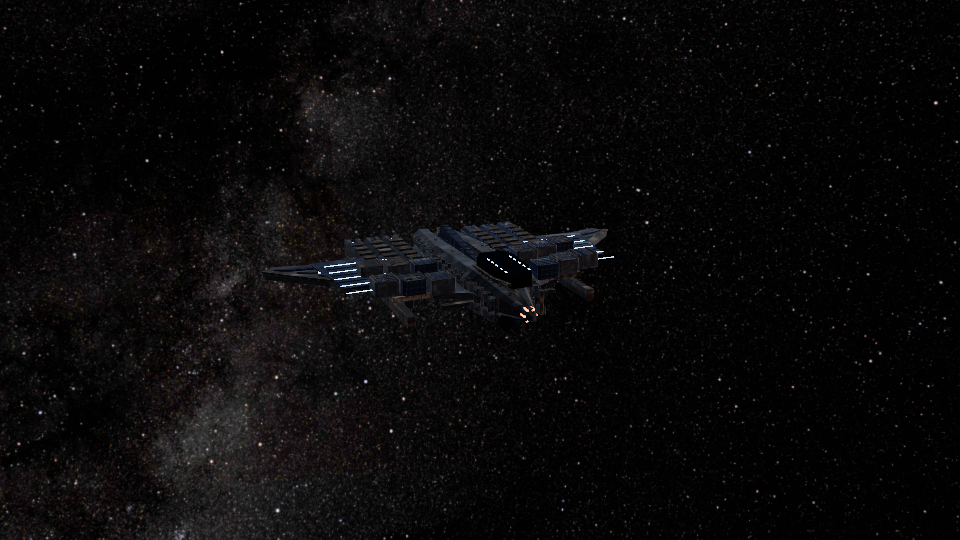
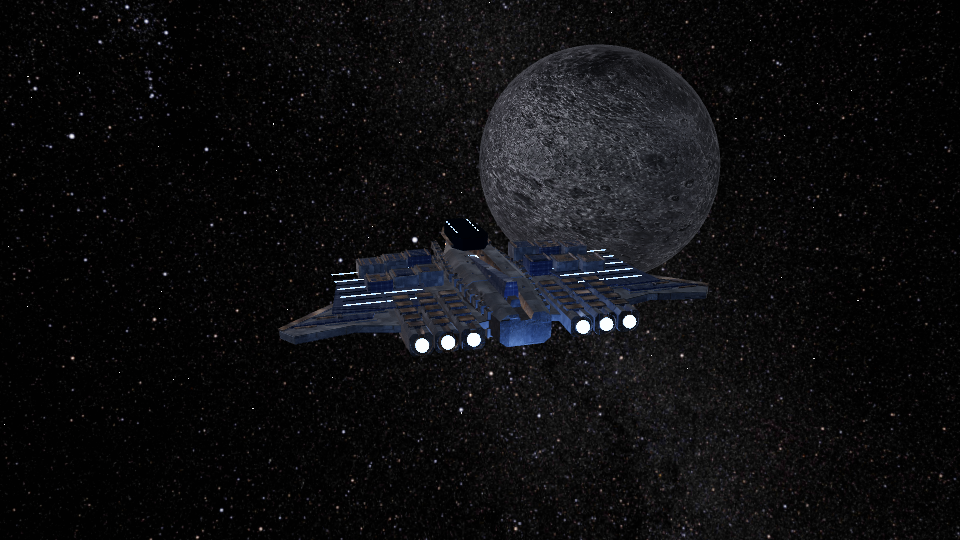
Brighten Asterion ships and extend complete camera orbits

diff --git a/examples/build_advanced_space_demo.py b/examples/build_advanced_space_demo.py
@@ -1,4 +1,4 @@
-"""Build the 60-second Asterion spacecraft bridge stress test inside Blender MCP.
+"""Build the 108-second Asterion spacecraft bridge stress test inside Blender MCP.
 
 Run through the official Blender MCP TCP extension's execute_blender_code, for example
 with ``exec(compile(open(path, encoding='utf-8').read(), path, 'exec'),
@@ -35,7 +35,24 @@ missing_textures = [name for name in REQUIRED_TEXTURES if not (ASSETS / name).is
 if missing_textures:
     raise FileNotFoundError(f"Required PBR texture maps are missing: {missing_textures}")
 FPS = 60
-LAST = 3601  # exactly 60 seconds from frame 1 at 60 fps
+SOURCE_LAST = 3601
+SECONDS = 108
+LAST = SECONDS*FPS+1
+# Extend each assembled hold to 24 seconds for a complete unbroken orbit.
+# The 12-second breakaways retain their original bullet-time choreography.
+TIME_ANCHORS = ((1,1),(541,1441),(1261,2161),(1801,3601),
+                (2521,4321),(3061,5761),(SOURCE_LAST,LAST))
+
+
+def retimed_frame(frame):
+    for (source_start,target_start),(source_end,target_end) in zip(
+            TIME_ANCHORS,TIME_ANCHORS[1:]):
+        if source_start <= frame <= source_end:
+            return round(target_start+(frame-source_start)
+                         *(target_end-target_start)/(source_end-source_start))
+    raise ValueError(f"Frame {frame} lies outside the source choreography")
+
+
 RNG = random.Random(24021984)
 
 # Replace scene content without resetting preferences, extensions or the live
@@ -72,9 +89,9 @@ scene.render.engine = "BLENDER_EEVEE" if bpy.app.version >= (5, 0, 0) else "BLEN
 scene.render.image_settings.file_format = "PNG"
 scene.view_settings.view_transform = "AgX"
 scene["tixl_project_name"] = "AsterionBreakaway"
-scene["demo_duration_seconds"] = 60
-scene["demo_phases"] = "0-9 COMBAT; 9-21 projectile breakup to EXPLORER; 21-30 EXPLORER; 30-42 projectile breakup to HAULER; 42-51 HAULER; 51-60 return to COMBAT"
-scene["variant_hold_frames"] = "COMBAT 1-541; EXPLORER 1261-1801; HAULER 2521-3061"
+scene["demo_duration_seconds"] = SECONDS
+scene["demo_phases"] = "0-24 COMBAT orbit; 24-36 breakaway to EXPLORER; 36-60 EXPLORER orbit; 60-72 breakaway to HAULER; 72-96 HAULER orbit; 96-108 return to COMBAT"
+scene["variant_hold_frames"] = "COMBAT 1-1441; EXPLORER 2161-3601; HAULER 4321-5761"
 scene["texture_source"] = "GPT Images 2.5 surface maps; NASA/Goddard space panorama; see examples/advanced_spaceship/textures"
 
 world = bpy.data.worlds.new("Near-black interstellar ambient")
@@ -735,24 +752,27 @@ def light(name, kind, loc, energy, color, size=None):
     return obj
 
 
-light("Distant sun | broad cool key","AREA",(17,-14,28),4600,(.72,.84,1.0),18)
-light("Warm reflected moonlight","AREA",(-14,15,2),2500,(1.0,.48,.22),12)
-light("Engine cobalt bounce","POINT",(0,-7,-2),900,(.12,.40,1.0))
+light("Distant sun | broad cool key","AREA",(17,-14,28),11000,(.82,.90,1.0),18)
+light("Warm reflected moonlight","AREA",(-14,15,7),6500,(1.0,.72,.48),16)
+light("Port bounce | ceramic detail","AREA",(-20,-10,11),4800,(.58,.72,1.0),15)
+light("Starboard bounce | ceramic detail","AREA",(21,13,10),4800,(.72,.82,1.0),15)
+light("Ventral reflected light","AREA",(2,3,-15),3600,(.55,.68,1.0),18)
+light("Engine cobalt bounce","POINT",(0,-7,-2),1400,(.18,.45,1.0))
 cargo_key = light("Cargo deck | warm inspection fill","AREA",(7,-6,19),
                   0,(1.0,.78,.56),11)
 for frame, energy in ((1,0),(2401,0),(2521,5600),(3061,5600),
-                      (3181,0),(LAST,0)):
+                      (3181,0),(SOURCE_LAST,0)):
     cargo_key.data.energy=energy
-    cargo_key.data.keyframe_insert("energy",frame=frame)
+    cargo_key.data.keyframe_insert("energy",frame=retimed_frame(frame))
 
 for burst_frame in (541, 1801, 3061):
     flash = light(f"Breakaway flash | {burst_frame}", "POINT", (0, 0, 1),
                   0, (0.57, 0.78, 1.0))
     for frame, energy in ((1, 0), (burst_frame-1, 0),
                           (burst_frame+4, 10500), (burst_frame+22, 1100),
-                          (burst_frame+65, 0), (LAST, 0)):
+                          (burst_frame+65, 0), (SOURCE_LAST, 0)):
         flash.data.energy = energy
-        flash.data.keyframe_insert("energy", frame=frame)
+        flash.data.keyframe_insert("energy", frame=retimed_frame(frame))
 
 
 camera_data = bpy.data.cameras.new("CAM | uninterrupted orbital take")
@@ -773,13 +793,13 @@ def smootherstep(start, end, value):
 def camera_pose(frame):
     global previous_camera_rotation
     seconds = (frame-1)/FPS
-    progress = seconds/60.0
-    # The base orbit never stops. Extra arc around each suspended debris field
-    # creates a bullet-time move without teleporting to another camera.
-    orbit = (-0.97 + math.tau*(0.80*progress
-             + 0.18*smootherstep(9.0, 17.0, seconds)
-             + 0.18*smootherstep(30.0, 40.0, seconds)
-             + 0.18*smootherstep(51.0, 57.0, seconds)))
+    progress = seconds/SECONDS
+    # One complete azimuth revolution during each 24-second assembled hold.
+    # The base orbit never stops, and three smooth extra arcs circle debris.
+    orbit = (-0.97 + math.tau*(seconds/24.0
+             + 0.12*smootherstep(24.0, 36.0, seconds)
+             + 0.12*smootherstep(60.0, 72.0, seconds)
+             + 0.12*smootherstep(96.0, 108.0, seconds)))
     radius = 36.0 + 3.5*math.sin(math.tau*progress+0.25)
     height = 15.0 + 5.5*math.sin(math.tau*progress-0.4)
     cinema_camera.location = (radius*math.cos(orbit),
@@ -799,16 +819,17 @@ def camera_pose(frame):
 # in the bridge's 60 Hz camera bake. No timeline camera markers create cuts.
 for camera_frame in list(range(1, LAST, 12)) + [LAST]:
     camera_pose(camera_frame)
-scene["camera_style"] = "single continuous orbital take; bullet-time debris orbits"
+scene["camera_style"] = "single continuous take; full orbit of each assembled ship; bullet-time debris arcs"
 
 
 def pose(obj, frame, position, angle, scale=(1,1,1)):
     obj.location=position
     obj.rotation_euler=angle
     obj.scale=scale
-    obj.keyframe_insert("location",frame=frame)
-    obj.keyframe_insert("rotation_euler",frame=frame)
-    obj.keyframe_insert("scale",frame=frame)
+    output_frame=retimed_frame(frame)
+    obj.keyframe_insert("location",frame=output_frame)
+    obj.keyframe_insert("rotation_euler",frame=output_frame)
+    obj.keyframe_insert("scale",frame=output_frame)
 
 
 def slowed_burst(frame, start, start_angle, start_scale,
@@ -888,7 +909,7 @@ for idx,obj in enumerate(parts):
                 slowed_burst(3230,hauler,hauler_angle,hauler_scale,
                              projectile,spin,(1,1,1),.35),
                 (3301,projectile,spin,(1,1,1)),
-                (LAST,rest,(0,0,0),(1,1,1))]
+                (SOURCE_LAST,rest,(0,0,0),(1,1,1))]
     for frame,position,angle,scale in trajectory:
         pose(obj,frame,position,angle,scale)
     obj["projectile_travel_m"] = round(travel,3)
@@ -1015,7 +1036,7 @@ for role, objects in role_parts.items():
                     slowed_burst(3230,hauler,hauler_angle,hauler_scale,
                                  projectile,spin,combat_scale,.35),
                     (3301,projectile,spin,combat_scale),
-                    (LAST,combat,combat_angle,combat_scale))
+                    (SOURCE_LAST,combat,combat_angle,combat_scale))
         for frame,position,angle,scale in trajectory:
             pose(obj,frame,position,angle,scale)
         obj["projectile_travel_m"] = round(travel,3)
@@ -1028,5 +1049,5 @@ scene["static_space_object_count"] = len(space.objects)
 scene["asset_directory"] = "//advanced_spaceship/textures"
 bpy.ops.wm.save_as_mainfile(filepath=str(OUTPUT))
 print("ASTERION_BUILT",{"file":str(OUTPUT),"detachable_parts":scene["detachable_mesh_count"],
-                         "space_objects":len(space.objects),"seconds":60,
+                         "space_objects":len(space.objects),"seconds":SECONDS,
     "texture_files_found":len(REQUIRED_TEXTURES)})

diff --git a/examples/validate_advanced_space_demo.py b/examples/validate_advanced_space_demo.py
@@ -33,8 +33,8 @@ duration_seconds = (scene.frame_end - scene.frame_start) / effective_fps
 assert math.isclose(effective_fps, 60.0, rel_tol=0.0, abs_tol=1e-9), (
     f"Expected 60 fps, found {effective_fps}"
 )
-assert math.isclose(duration_seconds, 60.0, rel_tol=0.0, abs_tol=1e-9), (
-    f"Expected exactly 60 seconds, found {duration_seconds} seconds"
+assert math.isclose(duration_seconds, 108.0, rel_tol=0.0, abs_tol=1e-9), (
+    f"Expected exactly 108 seconds, found {duration_seconds} seconds"
 )
 
 objects = list(scene.objects)
@@ -206,8 +206,22 @@ def assembly_components(candidates, clearance=.05):
 
 original_frame = scene.frame_current
 original_subframe = scene.frame_subframe
-sample_frames = (1, 541, 580, 841, 900, 1041, 1261, 1801, 1840,
-                 2180, 2251, 2521, 3061, 3100, 3230, 3301, 3601)
+time_anchors = ((1, 1), (541, 1441), (1261, 2161), (1801, 3601),
+                (2521, 4321), (3061, 5761), (3601, 6481))
+
+
+def retimed_frame(frame):
+    for (source_start, target_start), (source_end, target_end) in zip(
+            time_anchors, time_anchors[1:]):
+        if source_start <= frame <= source_end:
+            return round(target_start + (frame-source_start)
+                         *(target_end-target_start)/(source_end-source_start))
+    raise ValueError(frame)
+
+
+sample_frames = tuple(retimed_frame(frame) for frame in (
+    1, 541, 580, 841, 900, 1041, 1261, 1801, 1840,
+    2180, 2251, 2521, 3061, 3100, 3230, 3301, 3601))
 sampled_poses = {}
 sampled_bounds = {}
 visible_counts = {}
@@ -215,9 +229,10 @@ assembly_cluster_counts = {}
 assembly_outliers = {}
 camera_samples = {}
 camera_probe_frames = sorted(set(range(1, scene.frame_end+1, 30)) | {scene.frame_end} |
-                             {frame+offset for frame in (541, 580, 900, 1041,
+                             {retimed_frame(frame)+offset for frame in (541, 580, 900, 1041,
                               1801, 1840, 2180, 2251, 3061, 3100, 3230, 3301)
-                              for offset in (-1, 0, 1)})
+                              for offset in (-1, 0, 1)} |
+                             {1, 1441, 2161, 3601, 4321, 5761})
 try:
     for frame in sample_frames:
         scene.frame_set(frame)
@@ -230,7 +245,7 @@ try:
             or obj.get("configuration_role") in {"EXPLORER", "HAULER"}
         ]
         sampled_bounds[frame] = configuration_bounds(config_objects)
-        if frame in (1, 1261, 2521):
+        if frame in (1, retimed_frame(1261), retimed_frame(2521)):
             clusters = assembly_components(detachable)
             assembly_cluster_counts[frame] = len(clusters)
             assembly_outliers[frame] = [group[0] for group in clusters[1:]]
@@ -248,7 +263,8 @@ animated_detachable = [
     if obj.animation_data is not None
     and obj.animation_data.action is not None
     and any(
-        pose_differs(sampled_poses[frame][obj.name], sampled_poses[1][obj.name])
+        pose_differs(sampled_poses[retimed_frame(frame)][obj.name],
+                     sampled_poses[1][obj.name])
         for frame in (841, 1261, 2521)
     )
 ]
@@ -278,6 +294,22 @@ assert max_camera_speed < .4 and max_camera_turn < .02, (
 )
 
 
+def assembled_orbit(start, end):
+    frames = [frame for frame in camera_probe_frames if start <= frame <= end]
+    angles = [math.atan2(camera_samples[frame][0].y,
+                         camera_samples[frame][0].x) for frame in frames]
+    return sum(math.atan2(math.sin(right-left), math.cos(right-left))
+               for left, right in zip(angles, angles[1:]))
+
+
+assembled_orbits = {name: assembled_orbit(start, end) for name, start, end in (
+    ("COMBAT", 1, 1441), ("EXPLORER", 2161, 3601),
+    ("HAULER", 4321, 5761))}
+assert all(abs(abs(angle)-math.tau) < .05 for angle in assembled_orbits.values()), (
+    f"Each assembled ship needs a complete uninterrupted camera rotation: {assembled_orbits}"
+)
+
+
 def mean_motion(first, last):
     return sum((sampled_poses[last][obj.name][0]
                 -sampled_poses[first][obj.name][0]).length
@@ -289,6 +321,7 @@ for name, first, snap, hold, release in (
         ("combat_to_explorer", 541, 580, 900, 1041),
         ("explorer_to_hauler", 1801, 1840, 2180, 2251),
         ("hauler_to_combat", 3061, 3100, 3230, 3301)):
+    first, snap, hold, release = map(retimed_frame, (first, snap, hold, release))
     snap_speed = mean_motion(first, snap)
     hold_speed = mean_motion(snap, hold)
     release_speed = mean_motion(hold, release)
@@ -303,7 +336,7 @@ for name, first, snap, hold, release in (
 return_errors = []
 for obj in detachable:
     start_pose = sampled_poses[1][obj.name]
-    end_pose = sampled_poses[3601][obj.name]
+    end_pose = sampled_poses[retimed_frame(3601)][obj.name]
     if pose_differs(start_pose, end_pose):
         return_errors.append(obj.name)
 assert not return_errors, (
@@ -317,8 +350,8 @@ def bounds_distance(a, b):
 
 
 combat_bounds = sampled_bounds[1]
-explorer_bounds = sampled_bounds[1261]
-hauler_bounds = sampled_bounds[2521]
+explorer_bounds = sampled_bounds[retimed_frame(1261)]
+hauler_bounds = sampled_bounds[retimed_frame(2521)]
 configuration_distances = {
     "COMBAT_EXPLORER": bounds_distance(combat_bounds, explorer_bounds),
     "COMBAT_HAULER": bounds_distance(combat_bounds, hauler_bounds),
@@ -349,6 +382,7 @@ summary = {
     "cameraTravelMeters": camera_travel,
     "maxCameraMetersPerFrame": max_camera_speed,
     "maxCameraRadiansPerFrame": max_camera_turn,
+    "assembledOrbitRadians": assembled_orbits,
     "bulletTime": bullet_time,
     "animatedDetachableCount": len(animated_detachable),
     "packedTextureImageCount": len(packed_images),

diff --git a/examples/retime_advanced_space_demo_clips.py b/examples/retime_advanced_space_demo_clips.py
@@ -1,0 +1,66 @@
+"""Extend an existing Asterion TiXL project's seven editable source clips.
+
+Run only after closing TiXL through its debug bridge. This edits the user-owned
+home graph deliberately; normal bridge sync preserves its TimeClips.
+"""
+
+from __future__ import annotations
+
+import json
+import sys
+from pathlib import Path
+
+
+EXPECTED = {
+    "01 / COMBAT | compact strike ship": (0.0, 9.0, 0.0, 24.0),
+    "02 / Projectile breakup to EXPLORER": (9.0, 21.0, 24.0, 36.0),
+    "03 / EXPLORER | survey array": (21.0, 30.0, 36.0, 60.0),
+    "04 / Projectile breakup to HAULER": (30.0, 42.0, 60.0, 72.0),
+    "05 / HAULER | cargo cradle": (42.0, 51.0, 72.0, 96.0),
+    "06 / Return to COMBAT": (51.0, 58.0, 96.0, 105.3333333333),
+    "07 / COMBAT | final assembly": (58.0, 60.0, 105.3333333333, 108.0),
+}
+
+
+def retime(path: Path) -> None:
+    graph = json.loads(path.read_text(encoding="utf-8"))
+    found = set()
+    changed = 0
+    for child in graph["Children"]:
+        name = child.get("Name")
+        if name not in EXPECTED:
+            continue
+        if not child.get("SymbolName", "").endswith(".BlenderSourceClip"):
+            raise ValueError(f"Unexpected operator for {name}")
+        old_start, old_end, new_start, new_end = EXPECTED[name]
+        outputs = child.get("Outputs", [])
+        if len(outputs) != 1:
+            raise ValueError(f"Expected one editable clip output for {name}")
+        clip = outputs[0]["OutputData"]["TimeClip"]
+        source = clip["SourceRange"]
+        timeline = clip["TimeRange"]
+        current = (source["Start"], source["End"],
+                   timeline["Start"]*2, timeline["End"]*2)
+        expected_old = (old_start, old_end, old_start, old_end)
+        expected_new = (new_start, new_end, new_start, new_end)
+        if all(abs(a-b) < 1e-6 for a, b in zip(current, expected_new)):
+            found.add(name)
+            continue
+        if not all(abs(a-b) < 1e-6 for a, b in zip(current, expected_old)):
+            raise ValueError(f"Refusing to overwrite user-edited timing for {name}: {current}")
+        source.update(Start=new_start, End=new_end)
+        timeline.update(Start=new_start/2, End=new_end/2)
+        found.add(name)
+        changed += 1
+    if found != EXPECTED.keys():
+        raise ValueError(f"Missing expected clips: {sorted(EXPECTED.keys()-found)}")
+    if changed:
+        path.write_text(json.dumps(graph, indent=2, ensure_ascii=False)+"\n",
+                        encoding="utf-8")
+    print(f"ASTERION_TIXL_CLIPS_RETIMER {changed} changed; duration 108 seconds")
+
+
+if __name__ == "__main__":
+    if len(sys.argv) != 2:
+        raise SystemExit("Usage: retime_advanced_space_demo_clips.py <AsterionBreakaway.t3>")
+    retime(Path(sys.argv[1]))

diff --git a/examples/advanced_spaceship/README.md b/examples/advanced_spaceship/README.md
@@ -1,6 +1,6 @@
 # Asterion Breakaway demo
 
-A 60-second Blender-to-TiXL stress scene: one persistent set of 500 spacecraft meshes breaks into individually animated projectile parts and rebuilds as three distinct configurations. Every part is visible and reused in COMBAT, EXPLORER, and HAULER; no role modules are swapped in or hidden. One camera follows the action in an uninterrupted orbital take.
+A 108-second Blender-to-TiXL stress scene: one persistent set of 500 spacecraft meshes breaks into individually animated projectile parts and rebuilds as three distinct configurations. Every part is visible and reused in COMBAT, EXPLORER, and HAULER; no role modules are swapped in or hidden. One camera follows the action in an uninterrupted orbital take.
 
 ## Materials and texture assets
 
@@ -23,16 +23,16 @@ Run `../build_advanced_space_demo.py` through the official Blender MCP TCP exten
 
 ## Timeline
 
-The scene is 60 seconds at 60 fps. A single camera follows a continuous orbit with no camera markers or cuts. At each breakaway, the parts snap outward, drift almost motionless while the camera circles the suspended debris, then accelerate into the next configuration. Brief blue-white point-light flashes emphasize the three explosions. Keyed object transforms stage the sequence:
+The scene is 108 seconds at 60 fps. A single camera follows a continuous orbit with no camera markers or cuts. It makes one full rotation around each assembled ship. Five broad bounce and key lights keep the painted hull, machinery, and cargo details readable through the full orbit. At each breakaway, the parts snap outward, drift almost motionless while the camera circles the suspended debris, then accelerate into the next configuration. Brief blue-white point-light flashes emphasize the three explosions. Keyed object transforms stage the sequence:
 
 | Time | Configuration or action |
 | --- | --- |
-| 0–9 s | COMBAT strike craft |
-| 9–21 s | Projectile breakup and EXPLORER assembly |
-| 21–30 s | EXPLORER survey array |
-| 30–42 s | Projectile breakup and HAULER assembly |
-| 42–51 s | HAULER cargo configuration |
-| 51–60 s | Return to COMBAT and final assembly |
+| 0–24 s | COMBAT strike craft, complete orbit |
+| 24–36 s | Projectile breakup and EXPLORER assembly |
+| 36–60 s | EXPLORER survey array, complete orbit |
+| 60–72 s | Projectile breakup and HAULER assembly |
+| 72–96 s | HAULER cargo configuration, complete orbit |
+| 96–108 s | Return to COMBAT and final assembly |
 
 The same hull, survey, and cargo meshes form all three ships. Each module has combat, explorer, hauler, and projectile poses, so the transition exercises hundreds of independent transform records without adding or removing craft parts. All 500 craft meshes have distinct manufactured profiles and individually offset texture wear. The hull and engine pieces have recessed service trenches; cargo pods have four roof machinery patterns. Wing plates and guns now rotate as rigid assemblies around shared hinges. Survey panels sit on array trusses; cargo pods rest on a deck; small fittings are seated in the pressure shell. `../validate_advanced_space_demo.py`, run through Blender MCP TCP, checks the persistent pool, its visibility at representative frames, connected assemblies, distinct mesh profiles, packed maps, camera continuity, and the slowed debris intervals.
 
@@ -42,11 +42,11 @@ The role silhouettes draw on [Starbound's official visual gallery](https://plays
 
 ## TiXL sync and verification
 
-With the saved scene open through Blender MCP TCP, sync it using the bridge workflow and the configured TiXL operator project. In TiXL, inspect the generated world graph and texture routes, then evaluate and capture renders at the COMBAT, breakup, EXPLORER, HAULER, and final assembly markers. Confirm the rendered output as well as graph connections.
+With the saved scene open through Blender MCP TCP, sync it using the bridge workflow and the configured TiXL operator project. In TiXL, inspect the generated world graph and texture routes, then evaluate and capture renders at the COMBAT, breakup, EXPLORER, HAULER, and final assembly markers. Confirm the rendered output as well as graph connections. Existing TiXL projects can retain their editable 60-second TimeClips across syncs. After closing TiXL through its debug bridge, run `../retime_advanced_space_demo_clips.py` on that project's `Symbols/AsterionBreakaway.t3` and restart TiXL through the bridge. The retimer changes only the seven known source clips and refuses to overwrite unexpected timing.
 
-The current reference run synced successfully to TiXL 4.3.0.2. Its generated cache contains 500 animated reusable craft parts, with no visibility-switch channels. The single 60-second camera rail has 3,600 samples; its largest adjacent-frame move is 0.253 m and its largest forward-direction turn is 0.007 rad. The generated graph has 29 children and 52 connections, with no missing child or connection references. The 16K panorama remains embedded in the glTF scene. The sync took about 69 seconds and published about 201 MB of generated cache data. TiXL rendered all three configurations and each slowed breakup: [combat](previews/tixl_combat.png), [first snap](previews/tixl_bullet_snap.png), [first suspended drift](previews/tixl_bullet_drift.png), [explorer](previews/tixl_explorer.png), [second suspended drift](previews/tixl_bullet_hauler.png), [hauler](previews/tixl_hauler.png), [return drift](previews/tixl_bullet_return.png), and [final combat](previews/tixl_final.png). Matching Blender views show the [combat](previews/combat_blender.png), [explorer](previews/explorer_blender.png), [hauler](previews/hauler_blender.png), [first snap](previews/bullet_time_snap_blender.png), [suspended drift](previews/bullet_time_drift_blender.png), and [hauler transition](previews/bullet_time_hauler_blender.png).
+The current reference run synced successfully to TiXL 4.3.0.2. Its generated cache contains 500 animated reusable craft parts, with no visibility-switch channels. The single 108-second camera rail has 6,480 samples; its largest adjacent-frame move is 0.248 m and its largest forward-direction turn is 0.0061 rad. The generated graph has 29 children and 52 connections, with no missing child or connection references. The 16K panorama remains embedded in the glTF scene. The generated cache contains about 294 MB of data. TiXL renders show each ship at the start and opposite side of its complete orbit: [combat](previews/tixl_combat.png) / [opposite](previews/tixl_combat_opposite.png), [explorer](previews/tixl_explorer.png) / [opposite](previews/tixl_explorer_opposite.png), and [hauler](previews/tixl_hauler.png) / [opposite](previews/tixl_hauler_opposite.png) / [orbit end](previews/tixl_hauler_end.png). The [first snap](previews/tixl_bullet_snap.png), [first suspended drift](previews/tixl_bullet_drift.png), [second suspended drift](previews/tixl_bullet_hauler.png), [return drift](previews/tixl_bullet_return.png), and [final combat](previews/tixl_final.png) verify the full 108-second sequence. Matching Blender views show the [combat](previews/combat_blender.png), [explorer](previews/explorer_blender.png), [hauler](previews/hauler_blender.png), and their [opposite](previews/combat_opposite_blender.png), [opposite](previews/explorer_opposite_blender.png), and [opposite](previews/hauler_opposite_blender.png) sides.
 
-The earlier bounded playback sample in [playback_metrics.json](playback_metrics.json) predates this camera revision. The eight current output captures above verify the new camera views and breakup staging. TiXL's output-evaluation counters do not establish continuous scene-rendering performance; use workload-specific profiling for that question.
+The earlier bounded playback sample in [playback_metrics.json](playback_metrics.json) predates this camera revision. The current output captures above verify the new camera views and breakup staging. TiXL's output-evaluation counters do not establish continuous scene-rendering performance; use workload-specific profiling for that question.
 
 ## Current limitations
 
